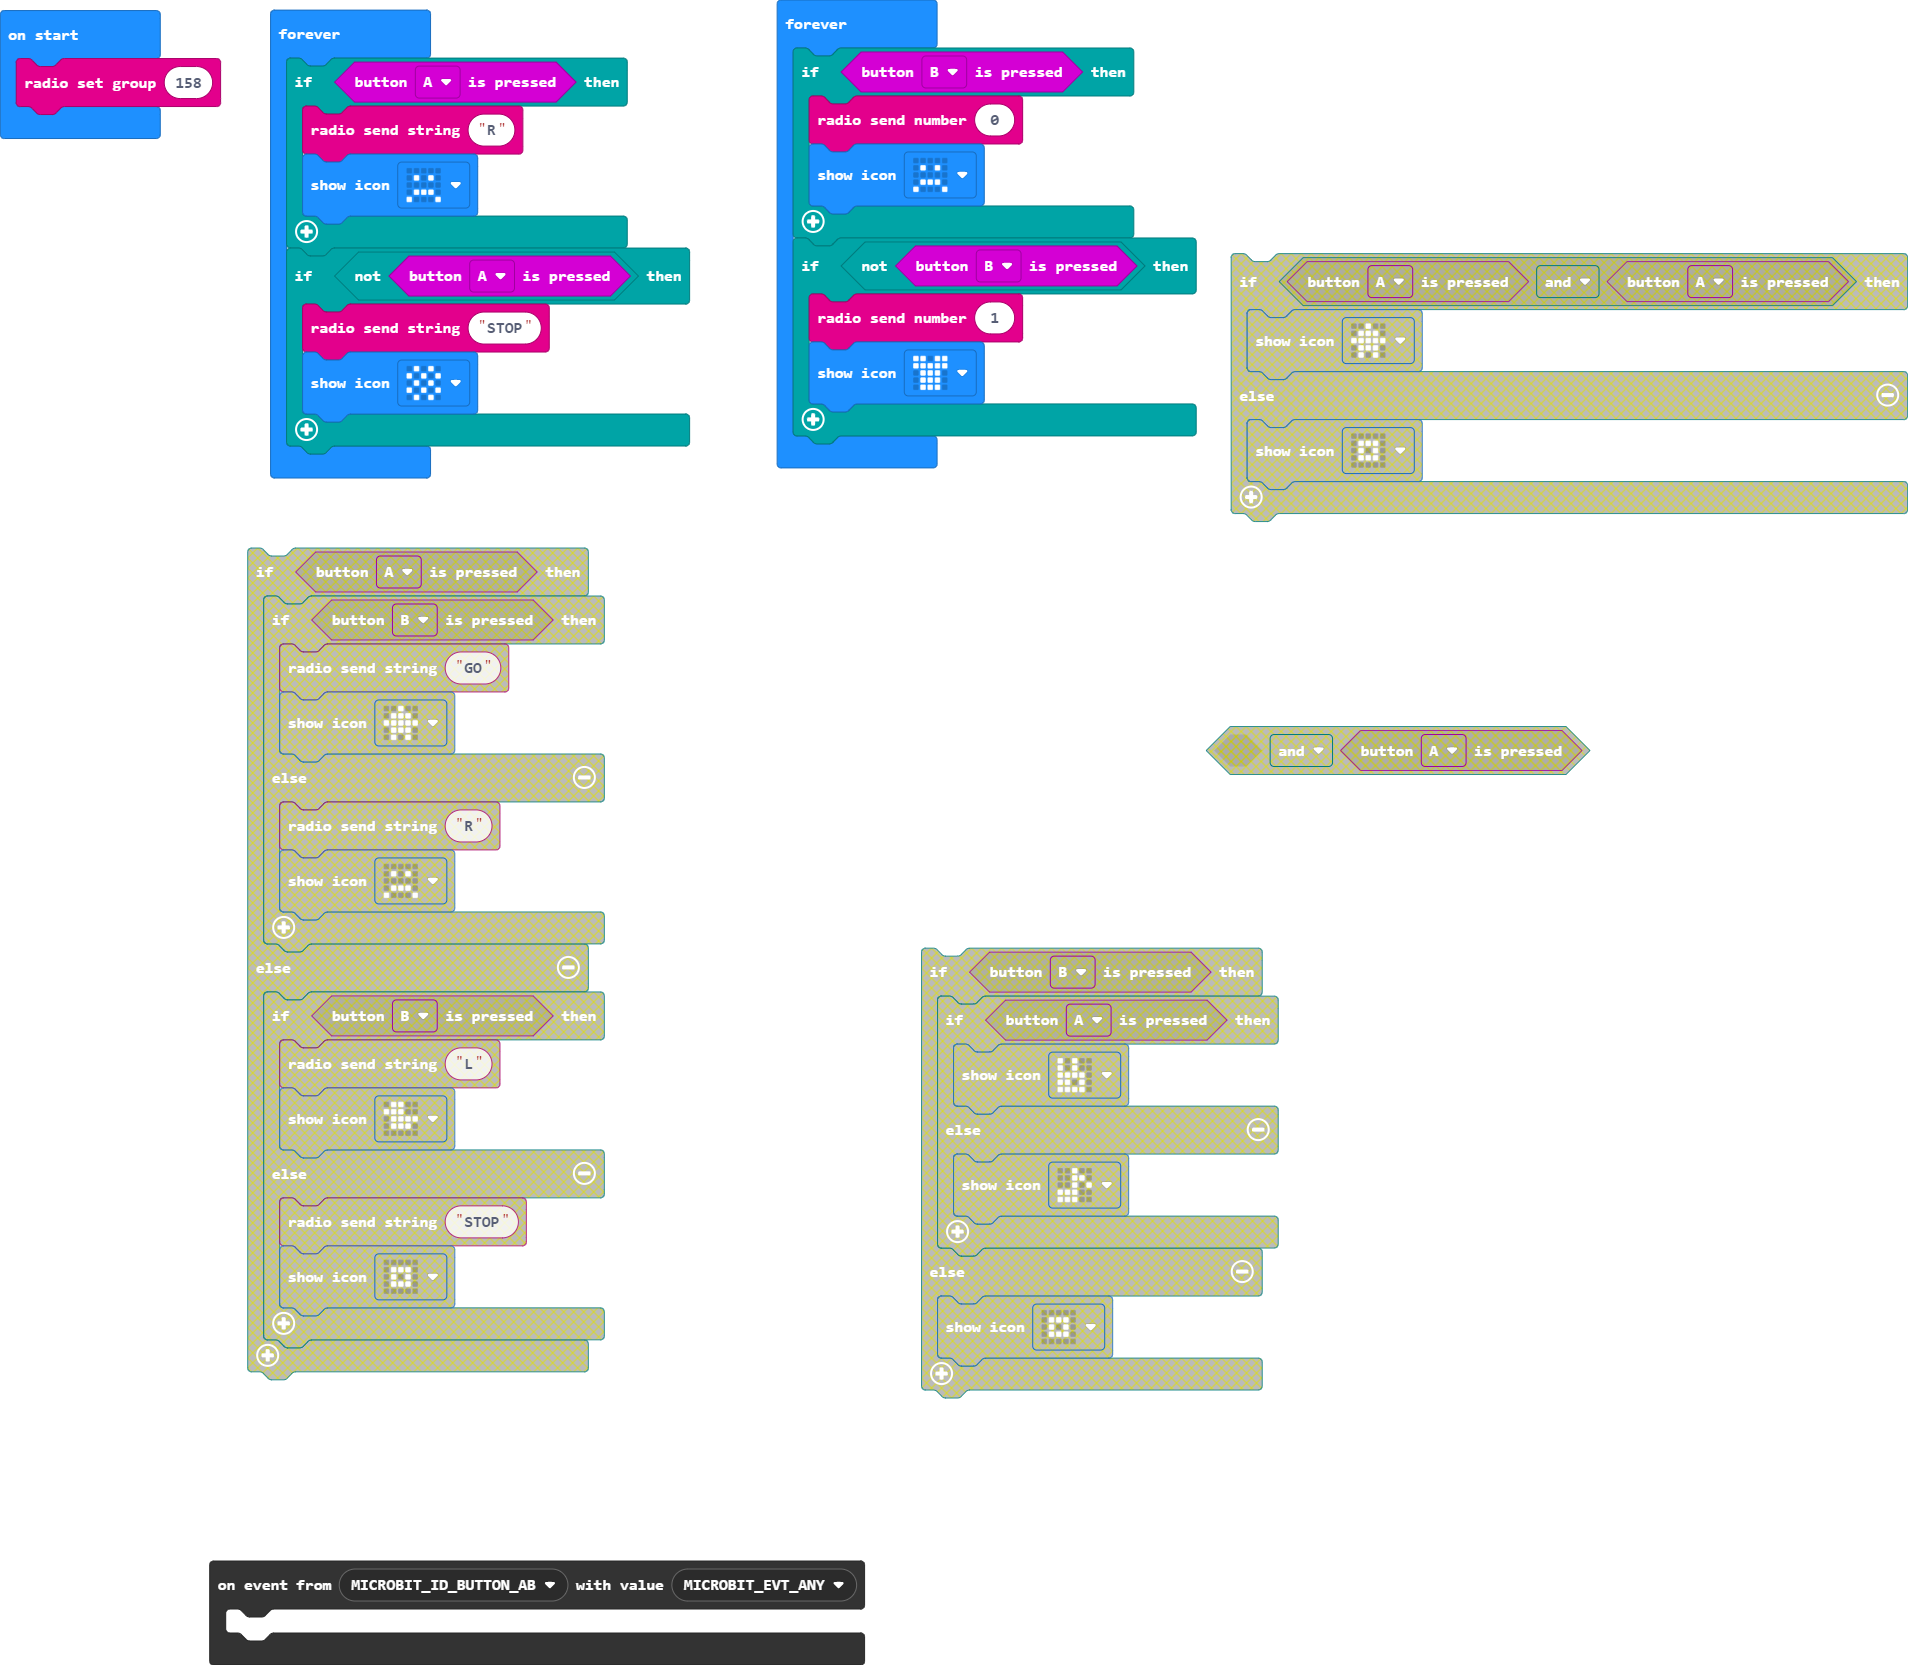
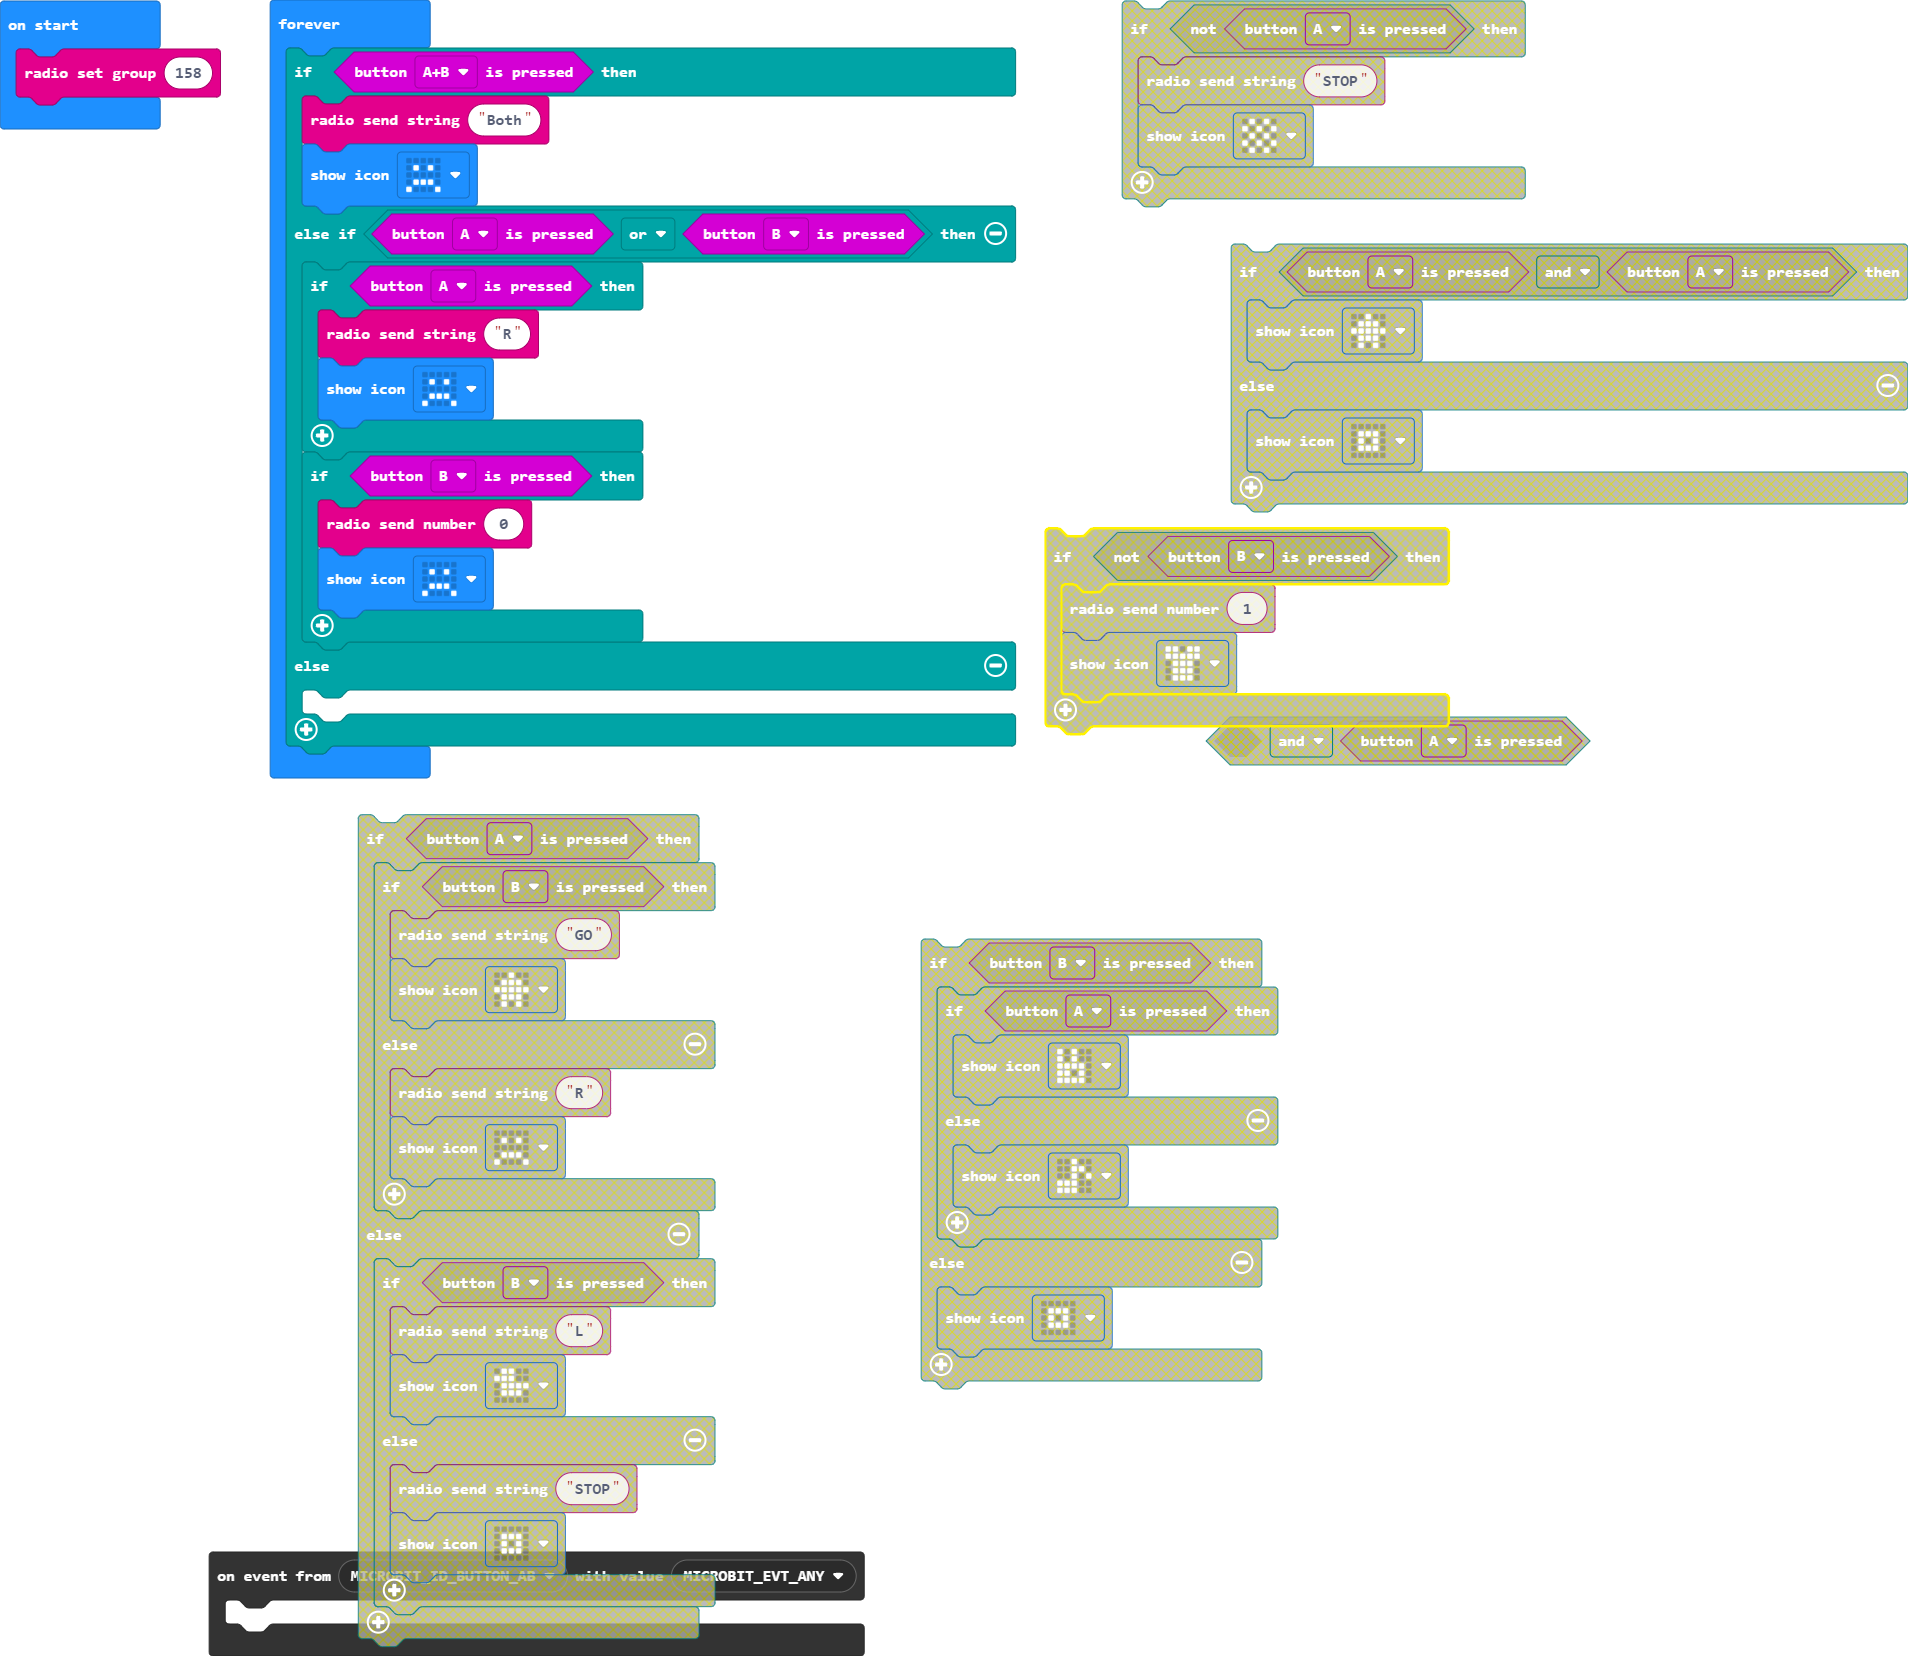
Update main.blocks, main.ts

diff --git a/main.ts b/main.ts
@@ -3,22 +3,19 @@ control.onEvent(EventBusSource.MICROBIT_ID_BUTTON_AB, EventBusValue.MICROBIT_EVT
 })
 radio.setGroup(158)
 basic.forever(function () {
-    if (input.buttonIsPressed(Button.A)) {
-        radio.sendString("R")
+    if (input.buttonIsPressed(Button.AB)) {
+        radio.sendString("Both")
         basic.showIcon(IconNames.Sad)
-    }
-    if (!(input.buttonIsPressed(Button.A))) {
-        radio.sendString("STOP")
-        basic.showIcon(IconNames.Chessboard)
-    }
-})
-basic.forever(function () {
-    if (input.buttonIsPressed(Button.B)) {
-        radio.sendNumber(0)
-        basic.showIcon(IconNames.Sad)
-    }
-    if (!(input.buttonIsPressed(Button.B))) {
-        radio.sendNumber(1)
-        basic.showIcon(IconNames.TShirt)
+    } else if (input.buttonIsPressed(Button.A) || input.buttonIsPressed(Button.B)) {
+        if (input.buttonIsPressed(Button.A)) {
+            radio.sendString("R")
+            basic.showIcon(IconNames.Sad)
+        }
+        if (input.buttonIsPressed(Button.B)) {
+            radio.sendNumber(0)
+            basic.showIcon(IconNames.Sad)
+        }
+    } else {
+    	
     }
 })
